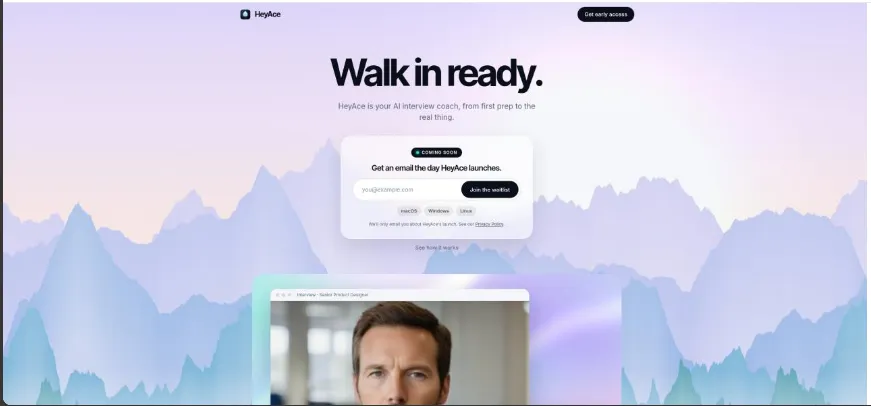
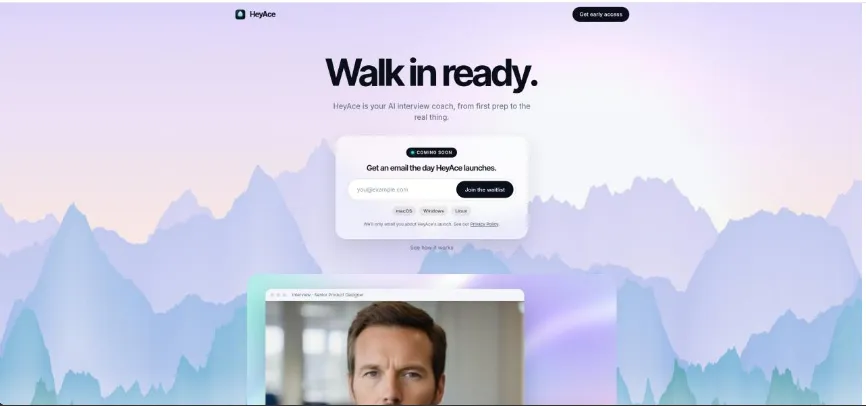
Crop 5px off left of HeyAce image

diff --git a/index.html b/index.html
@@ -161,7 +161,7 @@
         </article>
 
         <article>
-          <img src="/assets/heyace.webp" alt="HeyAce landing page: Walk in ready, your AI interview coach" width="871" height="406" loading="lazy" class="mb-5 w-full rounded-xs border border-rule">
+          <img src="/assets/heyace.webp" alt="HeyAce landing page: Walk in ready, your AI interview coach" width="866" height="406" loading="lazy" class="mb-5 w-full rounded-xs border border-rule">
           <h2 class="mb-3 font-display text-2xl/[1.2] font-semibold tracking-[-0.015em]">HeyAce</h2>
           <p class="max-w-[34rem]">An AI interview coach, from first prep to the real thing. LLM-powered coaching and feedback with speech-to-text, aimed at desktop and mobile. In private development; the waitlist is open.</p>
           <p class="mt-3 font-mono text-xs text-muted">TypeScript · React · Vite</p>
